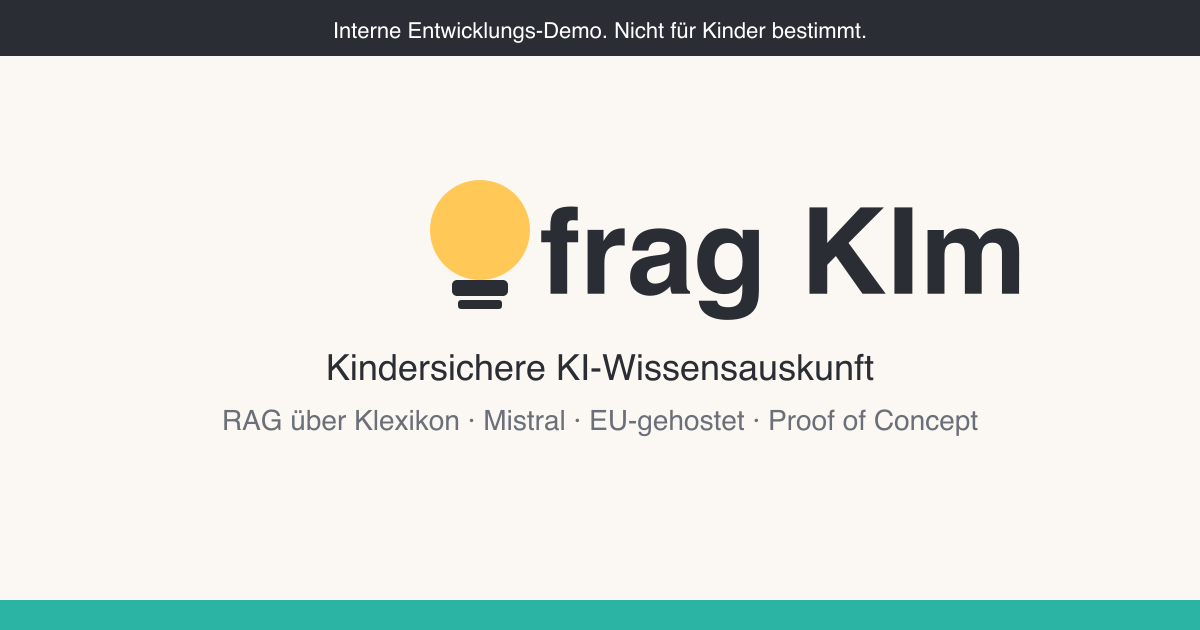
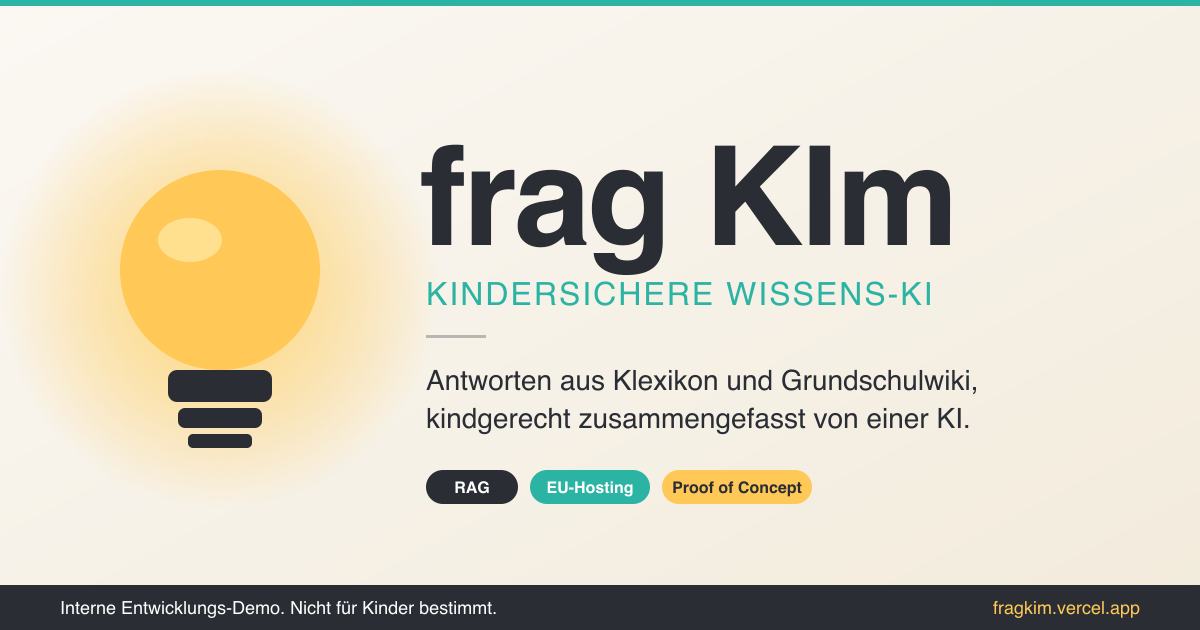
SEO/Mobile-Politur: bessere Linkvorschau, Web-Manifest, iOS Safe-Area
- frontend/index.html: erweiterte OG-/Twitter-Tags, canonical, web-manifest,
  multiple icon sizes, kompletter Title, theme-color (light+dark).
- frontend/public/og-image.png/svg: neue Komposition mit grosser Gluehbirne,
  Marken-Untertitel "Kindersichere Wissens-KI", Pill-Tags (RAG, EU-Hosting,
  PoC), Demo-Hinweis im Footer mit Domain.
- frontend/public/icon-192.png, icon-512.png, site.webmanifest: PWA-Basics.
- frontend/src/styles.css: iOS safe-area-insets im Composer, groessere
  Touch-Targets, schmalere Bubbles + 16px-Textarea (kein iOS-Zoom-Bug),
  zusaetzlicher 360px-Breakpoint fuer winzige Geraete.
- backend/src/archive-viewer.ts: viewport + theme-color in archivierten
  Artikel-Seiten, Mobile-CSS-Block fuer kleinere Schrift/Padding.

diff --git a/frontend/index.html b/frontend/index.html
@@ -2,46 +2,67 @@
 <html lang="de">
   <head>
     <meta charset="UTF-8" />
-    <meta name="viewport" content="width=device-width, initial-scale=1.0" />
+    <meta name="viewport" content="width=device-width, initial-scale=1.0, viewport-fit=cover" />
 
-    <!-- Suchmaschinen weiterhin aussperren (PoC, keine DSFA) -->
+    <!-- PoC: keine Indexierung, aber Linkvorschau erlaubt -->
     <meta name="robots" content="noindex,nofollow,noarchive" />
+    <meta name="googlebot" content="noindex,nofollow,noarchive" />
     <meta name="referrer" content="no-referrer" />
+    <meta name="format-detection" content="telephone=no" />
 
-    <title>frag KIm — interne Demo</title>
+    <title>frag KIm — Kindersichere Wissens-KI (interne Demo)</title>
     <meta
       name="description"
-      content="frag KIm ist ein Proof-of-Concept einer kindersicheren KI-Wissensauskunft, angelehnt an fragFINN, mit Klexikon als Quelle. Interne Entwicklungs-Demo, nicht für Kinder bestimmt."
+      content="frag KIm ist ein Proof of Concept einer kindersicheren KI-Wissensauskunft. Antworten aus Klexikon und Grundschulwiki, RAG-Architektur, EU-gehostet. Interne Entwicklungs-Demo, nicht für Kinder bestimmt."
     />
+    <meta name="author" content="Thomas Soring" />
+    <meta name="keywords" content="KI Kinder, Kinderlexikon, fragFINN-Alternative, Klexikon, Grundschulwiki, kindersichere KI, RAG, EU-KI" />
+    <meta name="application-name" content="frag KIm" />
+    <meta name="apple-mobile-web-app-title" content="frag KIm" />
 
-    <!-- Linkvorschau für Slack, WhatsApp, Mail, Discord -->
+    <!-- Open Graph für Slack, WhatsApp, Mail, LinkedIn -->
     <meta property="og:type" content="website" />
-    <meta property="og:title" content="frag KIm — interne Demo" />
+    <meta property="og:site_name" content="frag KIm" />
+    <meta property="og:title" content="frag KIm — Kindersichere Wissens-KI" />
     <meta
       property="og:description"
-      content="Kindersichere KI-Wissensauskunft (Proof of Concept). RAG über Klexikon, Mistral LLM, EU-gehostet. Interne Demo, nicht für Kinder bestimmt."
+      content="Antworten aus Klexikon und Grundschulwiki, kindgerecht zusammengefasst von einer KI. EU-gehostet, RAG-Architektur. Interne Demo, nicht für Kinder bestimmt."
     />
-    <meta property="og:image" content="/og-image.png" />
+    <meta property="og:url" content="https://fragkim.vercel.app/" />
+    <meta property="og:image" content="https://fragkim.vercel.app/og-image.png" />
+    <meta property="og:image:secure_url" content="https://fragkim.vercel.app/og-image.png" />
+    <meta property="og:image:type" content="image/png" />
     <meta property="og:image:width" content="1200" />
     <meta property="og:image:height" content="630" />
-    <meta property="og:image:alt" content="frag KIm Logo mit Glühbirne und Hinweis: interne Entwicklungs-Demo" />
+    <meta property="og:image:alt" content="frag KIm — Glühbirnen-Logo, Untertitel: Kindersichere Wissens-KI, Tags: RAG, EU-Hosting, Proof of Concept" />
     <meta property="og:locale" content="de_DE" />
 
-    <!-- Twitter / X Card -->
+    <!-- Twitter / X -->
     <meta name="twitter:card" content="summary_large_image" />
-    <meta name="twitter:title" content="frag KIm — interne Demo" />
+    <meta name="twitter:title" content="frag KIm — Kindersichere Wissens-KI" />
     <meta
       name="twitter:description"
-      content="Kindersichere KI-Wissensauskunft (PoC). RAG über Klexikon, EU-gehostet. Nicht für Kinder bestimmt."
+      content="Antworten aus Klexikon und Grundschulwiki, kindgerecht zusammengefasst von einer KI. EU-gehostet. Interne Demo, nicht für Kinder bestimmt."
     />
-    <meta name="twitter:image" content="/og-image.png" />
+    <meta name="twitter:image" content="https://fragkim.vercel.app/og-image.png" />
+    <meta name="twitter:image:alt" content="frag KIm Logo mit Glühbirne, Untertitel Kindersichere Wissens-KI" />
 
-    <!-- Favicon -->
+    <!-- Icons & Manifest -->
     <link rel="icon" type="image/svg+xml" href="/favicon.svg" />
+    <link rel="icon" type="image/png" sizes="192x192" href="/icon-192.png" />
+    <link rel="icon" type="image/png" sizes="512x512" href="/icon-512.png" />
     <link rel="apple-touch-icon" href="/apple-touch-icon.png" />
+    <link rel="manifest" href="/site.webmanifest" />
 
-    <!-- Theme color für mobile Browser -->
-    <meta name="theme-color" content="#2bb3a3" />
+    <!-- Theme & Display -->
+    <meta name="theme-color" content="#2bb3a3" media="(prefers-color-scheme: light)" />
+    <meta name="theme-color" content="#2bb3a3" media="(prefers-color-scheme: dark)" />
+    <meta name="color-scheme" content="light" />
+    <meta name="mobile-web-app-capable" content="yes" />
+    <meta name="apple-mobile-web-app-capable" content="yes" />
+    <meta name="apple-mobile-web-app-status-bar-style" content="default" />
+
+    <link rel="canonical" href="https://fragkim.vercel.app/" />
 
     <link rel="stylesheet" href="/src/styles.css" />
   </head>

diff --git a/backend/src/archive-viewer.ts b/backend/src/archive-viewer.ts
@@ -43,8 +43,10 @@ function renderHtml(opts: {
     <meta charset="utf-8">
     <meta name="viewport" content="width=device-width, initial-scale=1.0">
     <meta name="robots" content="noindex,nofollow,noarchive">
+    <meta name="viewport" content="width=device-width, initial-scale=1.0, viewport-fit=cover">
     <title>${esc(title)} — Grundschulwiki-Archiv (fragKIm)</title>
     <link rel="icon" type="image/svg+xml" href="/favicon.svg">
+    <meta name="theme-color" content="#2bb3a3">
     <style>
       :root {
         --primary: #2bb3a3;
@@ -58,15 +60,20 @@ function renderHtml(opts: {
       }
       *{box-sizing:border-box}
       html, body { margin: 0; padding: 0; }
+      html { -webkit-text-size-adjust: 100%; text-size-adjust: 100%; }
       body { background: var(--bg); color: var(--text);
         font-family: "Atkinson Hyperlegible", "Lexend", "Nunito",
           -apple-system, BlinkMacSystemFont, "Segoe UI", Roboto, sans-serif;
         font-size: 18px; line-height: 1.65;
-        -webkit-font-smoothing: antialiased; }
+        -webkit-font-smoothing: antialiased;
+        -webkit-tap-highlight-color: transparent; }
       .banner { position: sticky; top: 0; z-index: 10;
         background: var(--text); color: #fff; text-align: center;
         font-size: 14px; padding: 8px 16px; }
-      .wrap { max-width: 760px; margin: 0 auto; padding: 24px 16px 64px; }
+      .wrap { max-width: 760px; margin: 0 auto;
+        padding: 24px 16px 64px;
+        padding-left: max(16px, env(safe-area-inset-left, 16px));
+        padding-right: max(16px, env(safe-area-inset-right, 16px)); }
       .crumbs { font-size: 14px; color: var(--muted); margin-bottom: 8px; }
       .crumbs a { color: var(--muted); text-decoration: underline; text-underline-offset: 3px; }
       h1 { font-size: 36px; line-height: 1.15; margin: 0 0 8px;
@@ -103,6 +110,27 @@ function renderHtml(opts: {
         border-radius: 12px; }
       .footer a { color: var(--muted); }
       .empty { padding: 24px 28px; color: var(--muted); }
+
+      @media (max-width: 520px) {
+        body { font-size: 17px; line-height: 1.6; }
+        .banner { font-size: 13px; padding: 6px 12px; }
+        .wrap { padding: 16px 14px 40px; }
+        h1 { font-size: 26px; gap: 8px; }
+        .archive-badge { font-size: 12px; padding: 3px 10px; }
+        .article { padding: 18px 18px; border-radius: 14px; }
+        .article h2 { font-size: 20px; margin: 22px 0 8px; }
+        .article h3 { font-size: 18px; margin: 18px 0 6px; }
+        .article h4 { font-size: 17px; margin: 16px 0 4px; }
+        .article ul, .article ol { padding-left: 22px; }
+        .wt-figure { margin: 14px -4px; padding: 8px;
+          border-radius: 10px; }
+        .footer { padding: 12px 14px; font-size: 12px;
+          line-height: 1.55; border-radius: 10px; }
+      }
+
+      @media (prefers-reduced-motion: reduce) {
+        html { scroll-behavior: auto; }
+      }
     </style>
   </head>
   <body>

diff --git a/frontend/src/styles.css b/frontend/src/styles.css
@@ -32,7 +32,12 @@ html, body, #root {
   font-size: 18px;
   line-height: 1.55;
   -webkit-font-smoothing: antialiased;
+  -webkit-tap-highlight-color: transparent;
+  -webkit-text-size-adjust: 100%;
+  text-size-adjust: 100%;
 }
+html { scroll-behavior: smooth; }
+body { overscroll-behavior-y: contain; }
 
 #root {
   display: flex;
@@ -232,6 +237,9 @@ html, body, #root {
   background: var(--bg);
   border-top: 1px solid var(--border);
   padding: 12px 16px;
+  padding-bottom: max(12px, env(safe-area-inset-bottom, 12px));
+  padding-left: max(16px, env(safe-area-inset-left, 16px));
+  padding-right: max(16px, env(safe-area-inset-right, 16px));
   z-index: 15;
 }
 .composer-inner {
@@ -341,9 +349,83 @@ html, body, #root {
 .footer a { color: var(--muted); }
 
 @media (max-width: 520px) {
+  html, body, #root { font-size: 17px; }
+  .demo-banner { font-size: 13px; padding: 6px 12px; }
+  .brand {
+    padding: 14px 14px 4px;
+    gap: 8px;
+  }
   .brand h1 { font-size: 22px; }
-  .chat { padding-bottom: 120px; }
-  .footer { padding-bottom: 110px; }
+  .brand-mark svg { width: 30px; height: 30px; }
+  .reset {
+    font-size: 13px;
+    padding: 6px 10px;
+  }
+
+  .sources-bar {
+    padding: 0 12px;
+    margin-top: 6px;
+    gap: 6px;
+  }
+  .source-toggle {
+    font-size: 13px;
+    padding: 7px 12px;
+    min-height: 32px;
+  }
+
+  .chat {
+    padding: 8px 12px 130px;
+  }
+  .bubbles { gap: 10px; }
+  .bubble {
+    max-width: 92%;
+    padding: 10px 14px;
+    font-size: 16px;
+  }
+  .bubble-image {
+    max-width: 100%;
+  }
+  .bubble-actions .icon-btn {
+    width: 38px;
+    height: 38px;
+  }
+
+  .composer {
+    padding: 8px 10px;
+    padding-bottom: max(10px, env(safe-area-inset-bottom, 10px));
+  }
+  .composer-inner { gap: 6px; }
+  .composer .input-wrap textarea {
+    font-size: 16px; /* >=16px verhindert iOS-Zoom beim Fokus */
+    padding: 10px 14px;
+    line-height: 1.35;
+  }
+  .composer .input-wrap.has-mic textarea {
+    padding-right: 48px;
+  }
+  .composer .icon-btn.mic-inline {
+    width: 36px; height: 36px;
+    right: 4px; bottom: 4px;
+  }
+  .composer .send-btn {
+    font-size: 15px;
+    padding: 10px 14px;
+  }
+
+  .footer {
+    font-size: 12px;
+    padding: 8px 12px 110px;
+    line-height: 1.5;
+  }
+  .hint { padding: 20px 8px; font-size: 16px; }
+}
+
+@media (max-width: 360px) {
+  .composer .send-btn {
+    padding: 10px 12px;
+    font-size: 14px;
+  }
+  .source-toggle { font-size: 12px; padding: 6px 10px; }
 }
 
 @media (prefers-reduced-motion: reduce) {
